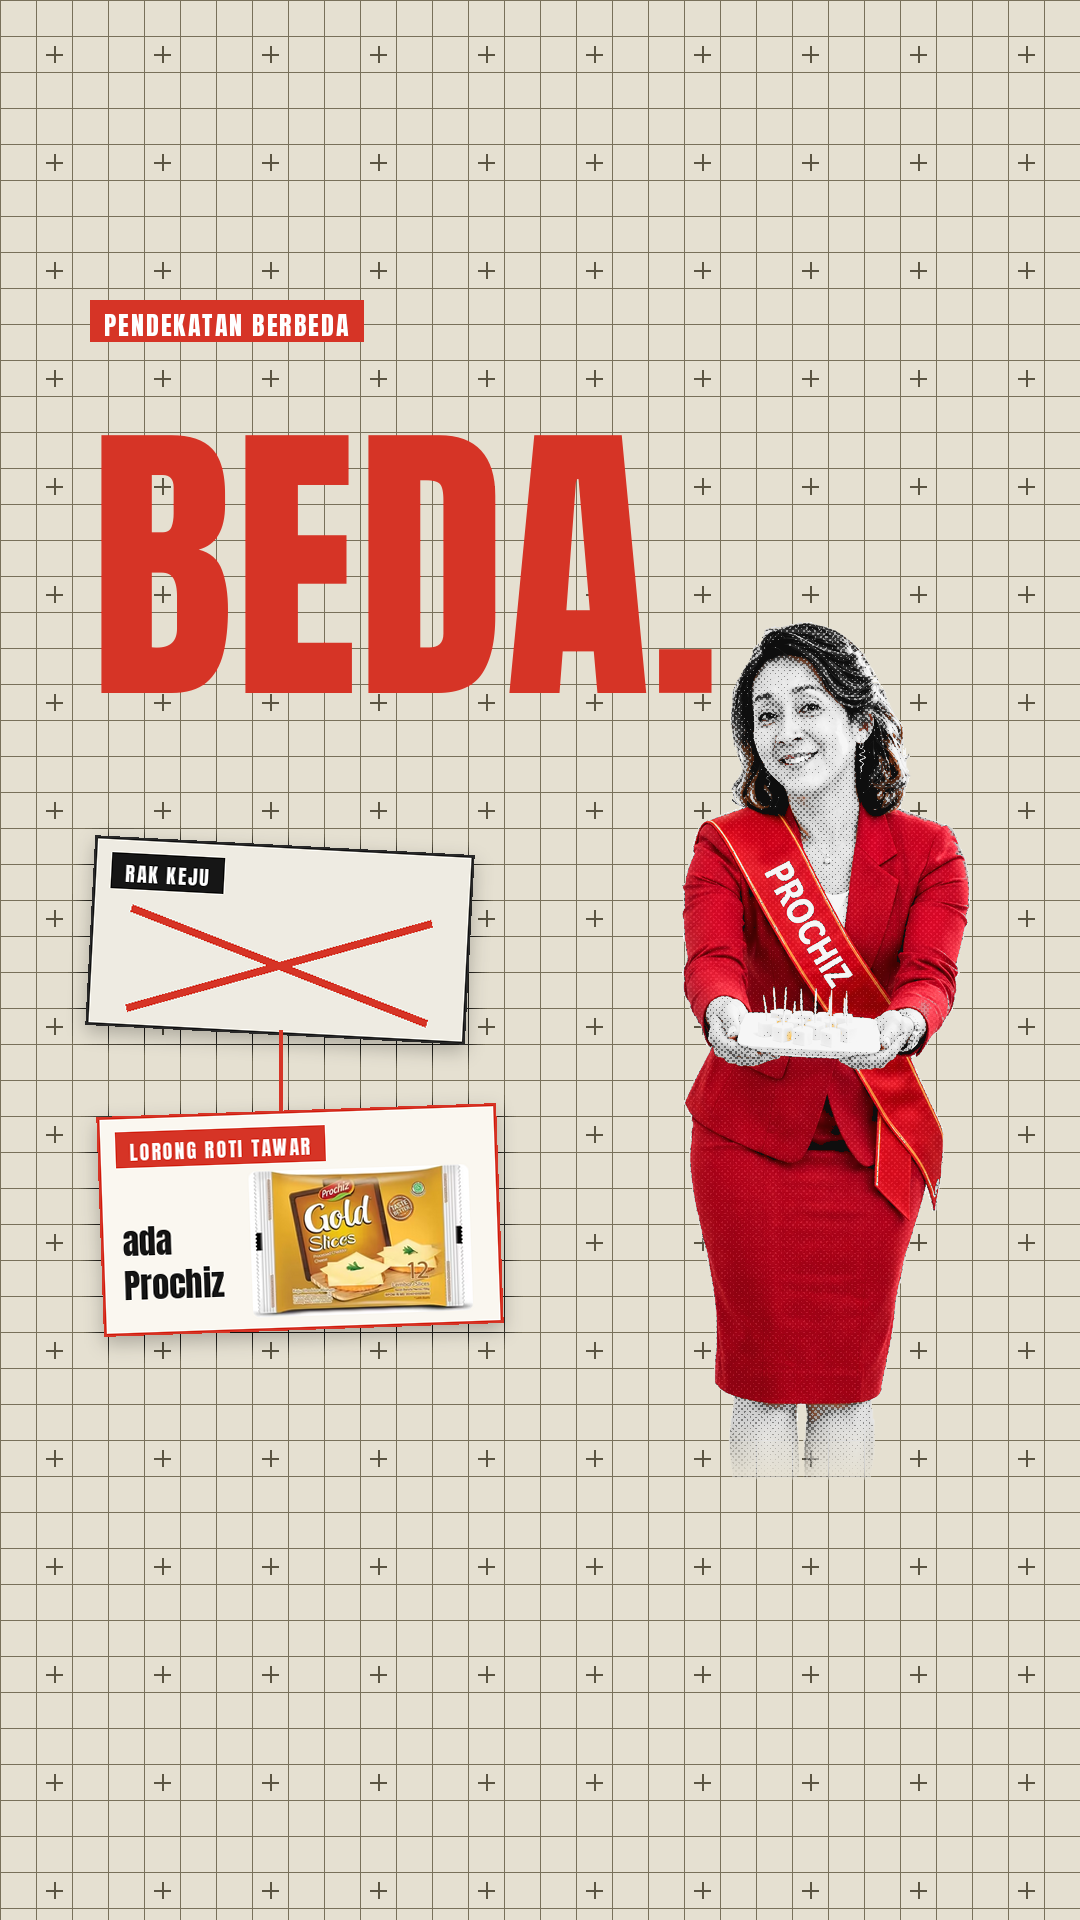
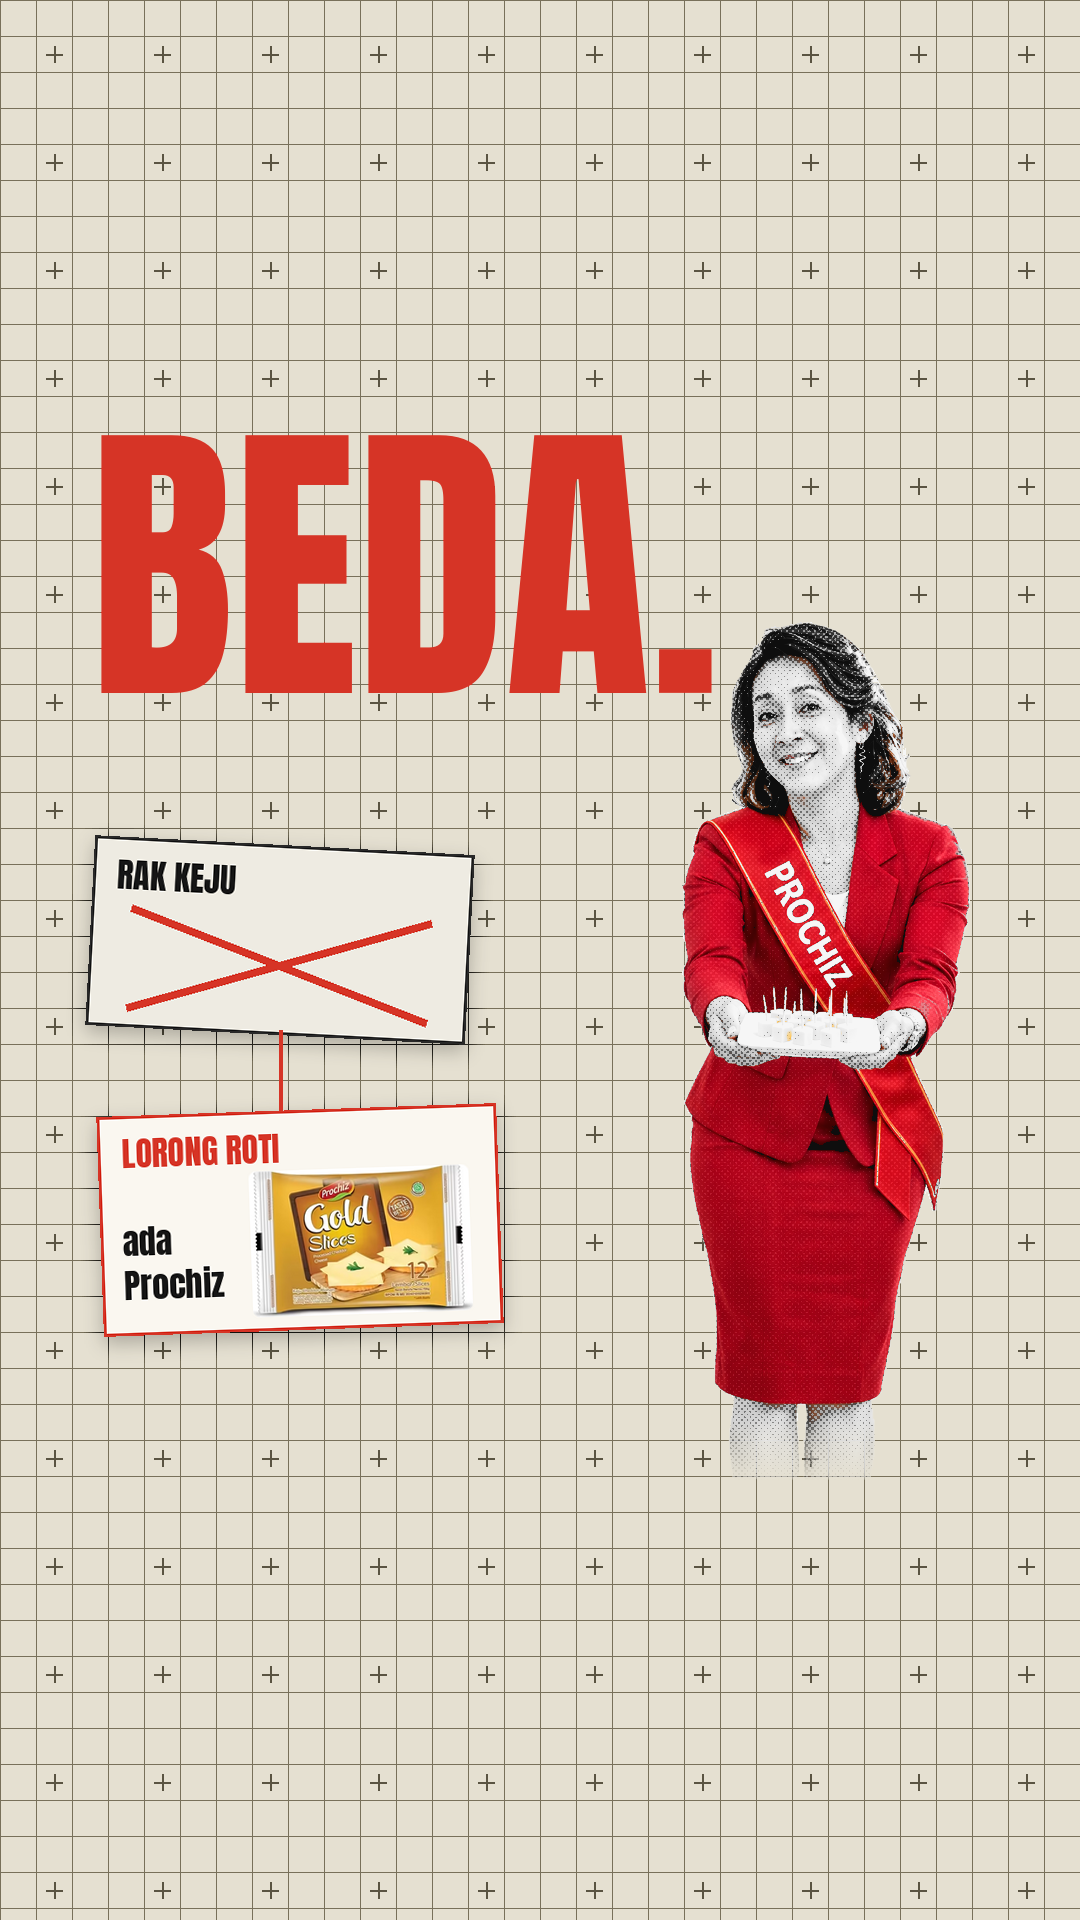
v8 frames: remove lines colliding with text/assets, cut small labels
Claude-Session: https://claude.ai/code/session_01HJTnHN98UwcZe7n2i8WeX4

Changed region(s): [[0.0917, 0.5625, 0.3056, 0.625], [0.0611, 0.1562, 0.3361, 0.1875], [0.0917, 0.4375, 0.2139, 0.4688]]

diff --git a/projects/prochiz/keyvisual/src/board6.py b/projects/prochiz/keyvisual/src/board6.py
@@ -69,13 +69,21 @@ def agus(n, h, frac=1.0):
 def name_label(L, cx, y):
     im = label("AGUSTINA  /  CO-FOUNDER PROCHIZ", 24); L.alpha_composite(im, (int(cx - im.width / 2), int(y)))
 
-def bar_card(w, rows, head, note="ILUSTRASI"):
-    h = 120 + 118 * len(rows); c = hairline_card(w, h, border=(40, 40, 40)); d = ImageDraw.Draw(c)
-    c.alpha_composite(label(head, 22), (22, 20)); y = 84
+def bar_card(w, rows, head=None, note=None):
+    top = 84 if head else 26; h = top + 118 * len(rows) + 10; c = hairline_card(w, h, border=(40, 40, 40)); d = ImageDraw.Draw(c)
+    if head: c.alpha_composite(label(head, 22), (22, 20))
+    y = top
     for nm, fr, col in rows:
         d.text((24, y), nm, font=an(26), fill=INKK + (255,)); d.rectangle((24, y + 40, w - 24, y + 84), outline=(40, 40, 40, 255), width=3, fill=(240, 236, 226, 255))
         d.rectangle((27, y + 43, 27 + int((w - 54) * fr), y + 81), fill=col + (255,)); y += 118
-    d.text((w - 24, h - 22), note, font=mono_font(16, False), fill=(110, 104, 90, 255), anchor="rb"); return c
+    if note: d.text((w - 24, h - 14), note, font=mono_font(16, False), fill=(110, 104, 90, 255), anchor="rb")
+    return c
+
+def dot_only(L, x, y, r=10):
+    d = ImageDraw.Draw(L); d.ellipse((x - r - 11, y - r - 11, x + r + 11, y + r + 11), outline=RED + (255,), width=3); d.ellipse((x - r, y - r, x + r, y + r), fill=RED + (255,), outline=(255, 255, 255, 255), width=3)
+
+def tag_blank():
+    im = hairline_card(96, 128, border=(40, 40, 40)); ImageDraw.Draw(im).rectangle((30, 36, 66, 72), fill=RED + (255,)); return im
 
 def ac(L, im, pos): L.alpha_composite(im, (int(pos[0]), int(pos[1])))
 def rule(L, p0, p1, col=INKK, w=6): ImageDraw.Draw(L).line((p0[0], p0[1], p1[0], p1[1]), fill=col + (255,), width=w)
@@ -84,35 +92,29 @@ def dotnode(L, x, y, col): ImageDraw.Draw(L).ellipse((x - 18, y - 18, x + 18, y 
 # ---------------------------------------------------------------- 15 scenes
 def s01(L):
     ttl(L, [[("KOMPETITOR", INKK)], [("MENGUASAI", INKK)], [("RAK", INKK), ("KEJU.", RED)]], 290, 124)
-    plumb(L, 230, 250, 1010, True)
     mh = mono_halftone(WALL.crop((294, 112, 1366, 912)).resize((860, 641), Image.LANCZOS), 5, 0.22, 1.08)
     d = ImageDraw.Draw(mh); sx, sy = int(536 * 860 / 1072), int(400 * 860 / 1072); d.rectangle((sx - 78, sy - 62, sx + 78, sy + 62), outline=RED + (255,), width=6)
     place(L, pcard(mh.resize((820, 611), Image.LANCZOS)), CX - 8, 1130, rot=-2)
-    micro(L, "SLOT KOSONG DI RAK KOMPETITOR", SL + 30, 745)
     ac(L, stamp("DIKUASAI KOMPETITOR"), (int(CX - 330), 1290))
 
 def s02(L):
     ttl(L, [[("PROCHIZ", RED)], [("MENYERANG DARI", INKK)], [("RAK ROTI TAWAR!", INKK)]], 290, 124)
     micro(L, "KENAPA RAK ROTI?", 90, 700, size=28)
     sp = agus(1, 1150, 0.72); ac(L, sp, (int(CX - sp.width / 2) + 20, 1480 - sp.height)); top = 1480 - sp.height
-    plumb(L, CX + 42, 260, top + 58, True, 9)
-    for x, y, r in ((120, 880, -5), (116, 1020, 4), (128, 1160, -3), (900, 840, 4), (904, 990, -4), (896, 1140, 3)): place(L, P.tag_card("ROTI"), x, y, rot=r)
+    dot_only(L, CX + 42, top - 6, 9)
+    for x, y, r in ((120, 880, -5), (116, 1020, 4), (128, 1160, -3), (900, 840, 4), (904, 990, -4), (896, 1140, 3)): place(L, tag_blank(), x, y, rot=r)
     name_label(L, CX + 20, 1420)
 
 def s03(L):
     ttl(L, [[("WAKTU MASUK KE", INKK)], [("SUPERMARKET", RED)]], 290, 124)
-    pw, ph = 860, 700; c = hairline_card(pw, ph, border=(40, 40, 40)); d = ImageDraw.Draw(c)
-    c.alpha_composite(label("DENAH TOKO  ·  TAMPAK ATAS", 22), (22, 20))
-    xs = [100, 270, 440, 610, 760]
-    for i, x in enumerate(xs): d.rectangle((x, 100, x + 56, 470), outline=(40, 40, 40, 255), width=3, fill=((255, 220, 214, 255) if i == 3 else (236, 232, 222, 255)))
-    c.alpha_composite(label("RAK KEJU", 20), (xs[1] - 28, 490)); c.alpha_composite(label("LORONG ROTI", 20, bg_=RED), (xs[3] - 52, 490))
-    c.alpha_composite(label("KASIR", 20), (pw - 150, ph - 70))
-    d.line((pw // 2, ph - 40, pw // 2, 590, xs[3] + 28, 560, xs[3] + 28, 300), fill=RED + (255,), width=5)
-    d.ellipse((xs[3] + 28 - 14, 300 - 14, xs[3] + 28 + 14, 300 + 14), fill=RED + (255,), outline=(255, 255, 255, 255), width=3)
-    c.alpha_composite(label("PINTU MASUK", 20), (pw // 2 - 70, ph - 38))
-    place(L, c, CX, 1130, rot=-1)
     micro(L, "PROCHIZ BERDIRI DI MANA?", SL + 20, 690, size=28)
-    plumb(L, SL + 40, 250, 780, False)
+    pw, ph = 860, 640; c = hairline_card(pw, ph, border=(40, 40, 40)); d = ImageDraw.Draw(c)
+    xs = [100, 270, 440, 610, 760]
+    for i, x in enumerate(xs): d.rectangle((x, 130, x + 56, 470), outline=(40, 40, 40, 255), width=3, fill=((255, 220, 214, 255) if i == 3 else (236, 232, 222, 255)))
+    c.alpha_composite(label("LORONG ROTI", 24, bg_=RED), (xs[3] + 28 - 70, 70))
+    cx3 = xs[3] + 28; d.line((cx3, ph - 30, cx3, 500), fill=RED + (255,), width=6)
+    d.ellipse((cx3 - 14, 486 - 14, cx3 + 14, 486 + 14), fill=RED + (255,), outline=(255, 255, 255, 255), width=3)
+    place(L, c, CX, 1130, rot=-1)
 
 def s04(L):
     ttl(L, [[("TIDAK BISA SEKADAR", INKK)], [("MENGANDALKAN", INKK), ("RAK KEJU", RED)]], 290, 100)
@@ -120,13 +122,12 @@ def s04(L):
     sx, sy = int(470 * 800 / 941), int(512 * 800 / 941); lg = wfit(LOGO_P, 170); box = Image.new("RGBA", (200, 150), PAPER_ + (255,)); box.alpha_composite(lg, (15, 14)); mh.alpha_composite(box, (sx - 100, sy - 75))
     ImageDraw.Draw(mh).rectangle((sx - 104, sy - 79, sx + 104, sy + 79), outline=RED + (255,), width=6)
     place(L, pcard(mh), CX, 1000, rot=1.2)
-    micro(L, "SATU DI ANTARA BANYAK", SL + 10, 1450); micro(L, "ILUSTRASI", SR - 150, 1450, bg=(110, 104, 90))
-    plumb(L, SR - 90, 250, 1000 - 400 + 70, False)
+    micro(L, "SATU DI ANTARA BANYAK", SL + 10, 1450)
 
 def s05(L):
     ttl(L, [[("BRAND LAWAN JAUH", INKK)], [("LEBIH DULU", INKK), ("DIKENAL", RED)]], 290, 108)
-    place(L, bar_card(760, (("BRAND LAWAN", 0.92, INKK), ("PROCHIZ", 0.26, RED)), "TINGKAT DIKENAL"), 490, 700, rot=1.5)
-    f = CUST1_X.resize((int(CUST1_X.width * 650 / CUST1_X.height), 650), Image.LANCZOS); ac(L, f, (SR - f.width - 40, 1480 - 650))
+    place(L, bar_card(760, (("BRAND LAWAN", 0.92, INKK), ("PROCHIZ", 0.26, RED)), "ILUSTRASI  ·  TINGKAT DIKENAL"), 490, 700, rot=1.5)
+    f = CUST1_X.resize((int(CUST1_X.width * 590 / CUST1_X.height), 590), Image.LANCZOS); ac(L, f, (SR - f.width - 40, 1480 - 590))
     q = label("mana yang Prochiz ya?", 30, fg=INKK, bg_=PAPER_); qq = Image.new("RGBA", (q.width + 8, q.height + 8), (40, 40, 40, 255)); qq.alpha_composite(q, (4, 4)); place(L, qq, 330, 1250, rot=3)
 
 def s06(L):
@@ -134,52 +135,46 @@ def s06(L):
     place(L, mono_card(WALL, 500, crop=(294, 112, 1366, 912)), 345, 880, rot=-5)
     ac(L, CROWD2, (int(470 - CROWD2.width / 2) + 40, 1480 - CROWD2.height + 4))
     ac(L, stamp("REBUT PERHATIAN", 50, -7), (130, 1180))
-    micro(L, "RAK KEJU  ·  KOMPETITOR", 90, 640)
 
 def s07(L):
-    micro(L, "PENDEKATAN BERBEDA", 90, 300, size=26, bg=RED)
     ttl(L, [[("BEDA.", RED)]], 340, 300, lead=1.0)
     sp = agus(2, 1100, 0.78); ac(L, sp, (SR - sp.width + 10, 1480 - sp.height))
-    a = hairline_card(380, 190, border=(40, 40, 40), fill=(238, 235, 226)); d = ImageDraw.Draw(a); a.alpha_composite(label("RAK KEJU", 20), (18, 16)); d.line((40, 70, 340, 170), fill=RED + (255,), width=8); d.line((40, 170, 340, 70), fill=RED + (255,), width=8)
+    a = hairline_card(380, 190, border=(40, 40, 40), fill=(238, 235, 226)); d = ImageDraw.Draw(a); d.text((24, 12), "RAK KEJU", font=an(34), fill=INKK + (255,)); d.line((40, 70, 340, 170), fill=RED + (255,), width=8); d.line((40, 170, 340, 70), fill=RED + (255,), width=8)
     place(L, a, 280, 940, rot=-3)
-    b = hairline_card(400, 220, border=RED); b.alpha_composite(label("LORONG ROTI TAWAR", 20, bg_=RED), (18, 16)); b.alpha_composite(wfit(GOLD_P, 220), (150, 60)); ImageDraw.Draw(b).text((22, 100), "ada\nProchiz", font=an(34), fill=INKK + (255,))
+    b = hairline_card(400, 220, border=RED); ImageDraw.Draw(b).text((24, 12), "LORONG ROTI", font=an(34), fill=RED + (255,)); b.alpha_composite(wfit(GOLD_P, 220), (150, 60)); ImageDraw.Draw(b).text((22, 100), "ada\nProchiz", font=an(34), fill=INKK + (255,))
     place(L, b, 300, 1220, rot=2); plumb(L, 280, 1030, 1110, False)
 
 def s08(L):
     ttl(L, [[("SPG DI LORONG", INKK)], [("ROTI", INKK), ("TAWAR", RED)]], 290, 108)
     place(L, mono_card(AISLE, 790, crop=(236, 0, 1436, 941)), 490, 960, rot=-2)
     sp = agus(1, 1050, 0.72); ac(L, sp, (SR - sp.width + 0, 1480 - sp.height))
-    hang(L, 828, 285, label("LORONG ROTI TAWAR", 20, bg_=INKK), rot=-3)
-    plumb(L, 300, 760, 1010, True, 12)
+    dot_only(L, 300, 1010, 12)
 
 def s09(L):
-    micro(L, "POV: KAMU LAGI CARI ROTI", 90, 300, size=28, bg=RED)
+    micro(L, "POV", 90, 300, size=34, bg=RED)
     ttl(L, [[("CUSTOMER", INKK)], [("MENCARI", INKK), ("ROTI", RED)]], 360, 122)
     pov = mono_card(POV, 600, crop=(400, 60, 1100, 941)); place(L, pov, 400, 1090, rot=-2)
     q = label("TERUS ENAKNYA DIAPAIN?", 34, fg=INKK, bg_=PAPER_); qq = Image.new("RGBA", (q.width + 8, q.height + 8), (40, 40, 40, 255)); qq.alpha_composite(q, (4, 4)); place(L, qq, 700, 1380, rot=3)
-    plumb(L, 640, 640, 1000, True, 12)
+    dot_only(L, 640, 1000, 12)
 
 def receipt():
     w, h = 330, 520; im = Image.new("RGBA", (w, h + 20), (0, 0, 0, 0)); d = ImageDraw.Draw(im)
     pts = [(0, 0), (w, 0)]; zz = 14
     pts += [(w - i * zz, h + (10 if i % 2 else 0)) for i in range(0, w // zz + 1)]; d.polygon(pts, fill=PAPER_ + (255,), outline=(40, 40, 40, 255))
-    f = mono_font(20); fb = mono_font(26); d.text((w // 2, 36), "NOTA BELANJA", font=fb, fill=INKK + (255,), anchor="mm"); d.text((w // 2, 70), "ILUSTRASI", font=mono_font(15, False), fill=(110, 104, 90, 255), anchor="mm")
-    d.line((20, 96, w - 20, 96), fill=(40, 40, 40, 255), width=2)
+    f = mono_font(20); fb = mono_font(26); d.text((w // 2, 44), "NOTA", font=fb, fill=INKK + (255,), anchor="mm"); d.line((20, 76, w - 20, 76), fill=(40, 40, 40, 255), width=2)
     for i, (n, hl) in enumerate((("ROTI TAWAR  x1", False), ("KEJU PROCHIZ  x1", True))):
         y = 140 + i * 72
         if hl: d.rectangle((14, y - 22, w - 14, y + 22), fill=RED + (255,))
         d.text((24, y), n, font=f, fill=((255, 255, 255) if hl else INKK) + (255,), anchor="lm")
-    d.line((20, 300, w - 20, 300), fill=(40, 40, 40, 255), width=2); d.text((24, 340), "DIBELI BERSAMA", font=f, fill=INKK + (255,), anchor="lm"); d.text((24, 400), "TERIMA KASIH", font=mono_font(18, False), fill=(110, 104, 90, 255), anchor="lm")
+    d.line((20, 300, w - 20, 300), fill=(40, 40, 40, 255), width=2); d.text((24, 340), "DIBELI BERSAMA", font=f, fill=INKK + (255,), anchor="lm"); pass
     return im
 
 def s10(L):
-    micro(L, "JAWABANNYA", 90, 300, size=26, bg=RED)
     ttl(L, [[("KEJU", RED)], [("PENDAMPING ROTI", INKK)]], 350, 116)
     gc = pcard(GOLDC.resize((560, 373), Image.LANCZOS)); place(L, gc, 380, 900, rot=-2)
     ac(L, wfit(Image.fromarray(np.asarray(P_ROTI)), 230), (110, 1080)) if False else None
     place(L, receipt(), 765, 1130, rot=4)
     ac(L, stamp("COCOK DIPASANGKAN", 46, -6), (96, 1220))
-    micro(L, "PROCHIZ GOLD CHEDDAR", 90, 1130)
 
 def s11(L):
     ttl(L, [[("KALAU KAMU OWNER:", INKK)], [("TUNGGU", INKK), ("ATAU", INKK), ("PINDAH?", RED)]], 290, 112)
@@ -189,8 +184,7 @@ def s11(L):
     left = panel(WALL, CUST3_X, 640, False); d = ImageDraw.Draw(left); d.line((90, 170, 330, 400), fill=RED + (255,), width=10); d.line((330, 170, 90, 400), fill=RED + (255,), width=10)
     place(L, left, SL + 12 + (pw + 24) / 2, 1010, rot=-1)
     place(L, panel(AISLE, agus(2, 780, 1.0), 700, True), SR - 12 - (pw + 24) / 2, 1010, rot=1)
-    micro(L, "MENUNGGU DI RAK KEJU", SL + 12, 1450); micro(L, "MENDATANGI DI LORONG ROTI", SR - 12 - 330, 1450, bg=RED)
-    micro(L, "VS", CX - 22, 1000, size=34)
+    micro(L, "MENUNGGU", SL + 12, 1450, size=28); micro(L, "MENDATANGI", SR - 12 - 190, 1450, size=28, bg=RED)
 
 def s12(L):
     ttl(L, [[("TEPAT SAAT", INKK)], [("KEBUTUHAN", RED), ("MUNCUL.", INKK)]], 290, 112)
@@ -199,32 +193,28 @@ def s12(L):
     items = ((800, "AMBIL ROTI", "roti"), (1090, "KEBUTUHAN MUNCUL", "ping"), (1380, "TAWARKAN KEJU", "pack"))
     for y, tag, ic in items:
         dotnode(L, 150, y, (RED if ic == "ping" else INKK))
-        c = hairline_card(480, 190, border=(40, 40, 40)); c.alpha_composite(label(tag, 22, bg_=(RED if ic == "ping" else INKK)), (18, 16))
-        if ic == "roti": c.alpha_composite(wfit(Image.fromarray(np.asarray(P_ROTI)), 120), (320, 40))
-        elif ic == "pack": c.alpha_composite(wfit(GOLD_P, 200), (250, 50))
-        else: ImageDraw.Draw(c).ellipse((350, 52, 430, 132), fill=RED + (255,))
-        ImageDraw.Draw(c).text((22, 110), ("customer\npilih roti", "butuh\npendamping", "SPG tawarkan\nProchiz")[items.index((y, tag, ic))], font=mono_font(22, False), fill=INKK + (255,))
-        place(L, c, 390, y, rot=(1, -1, 1)[items.index((y, tag, ic))])
-    plumb(L, 150, 1000, 1090, True, 12)
+        c = hairline_card(440, 170, border=(40, 40, 40)); c.alpha_composite(label(tag, 24, bg_=(RED if ic == "ping" else INKK)), (18, 16))
+        if ic == "roti": c.alpha_composite(wfit(Image.fromarray(np.asarray(P_ROTI)), 130), (290, 24))
+        elif ic == "pack": c.alpha_composite(wfit(GOLD_P, 190), (220, 36))
+        else: ImageDraw.Draw(c).ellipse((300, 40, 400, 140), fill=RED + (255,))
+        place(L, c, 420, y, rot=(1, -1, 1)[items.index((y, tag, ic))])
 
 def s13(L):
     ttl(L, [[("STRATEGI", INKK)]], 280, 140); rule(L, (SL + 18, 450), (SR, 450), INKK, 6); ttl(L, [[("GERILYA", RED)]], 460, 140)
     sp = agus(3, 800, 1.0); ac(L, sp, (int(CX - sp.width / 2) + 100, 1480 - sp.height + 10))
-    ac(L, wfit(LOGO_P, 300), (90, 860)); plumb(L, 240, 680, 860, False)
-    name_label(L, CX + 100, 1440)
+    ac(L, wfit(LOGO_P, 300), (90, 860))
 
 def s14(L):
     ttl(L, [[("MEREBUT", INKK)], [("PERHATIAN", RED)], [("CUSTOMER", INKK)]], 290, 118)
-    c = hairline_card(520, 440, border=(40, 40, 40)); d = ImageDraw.Draw(c); c.alpha_composite(label("MOMEN CUSTOMER", 22), (22, 18))
+    c = hairline_card(520, 370, border=(40, 40, 40)); d = ImageDraw.Draw(c)
     for i, (tx, col) in enumerate((("CARI ROTI", INKK), ("BUTUH PENDAMPING", (110, 106, 96)), ("TERTARIK KEJU", RED))):
-        d.rectangle((26, 80 + i * 110, 494, 160 + i * 110), fill=col + (255,)); d.text((260, 120 + i * 110), tx, font=an(34), fill=(255, 255, 255, 255), anchor="mm")
+        d.rectangle((26, 30 + i * 110, 494, 110 + i * 110), fill=col + (255,)); d.text((260, 70 + i * 110), tx, font=an(34), fill=(255, 255, 255, 255), anchor="mm")
     place(L, c, 330, 1050, rot=-2)
     f = CUST4_X; ac(L, f.resize((int(f.width * 800 / f.height), 800), Image.LANCZOS), (SR - 440, 1480 - 800))
-    plumb(L, 600, 700, 900, False)
 
 def s15(L):
     ttl(L, [[("MEMPERLUAS", INKK)], [("PENETRASI", RED)], [("PASAR.", INKK)]], 290, 118)
-    c = bar_card(480, (("PENETRASI PASAR", 0.82, RED),), "PROCHIZ  ·  TERUS NAIK"); c.alpha_composite(wfit(LOGO_P, 200), (140, 16 + 0)) if False else None
+    c = bar_card(480, (("PENETRASI PASAR", 0.82, RED),), None, "ILUSTRASI"); c.alpha_composite(wfit(LOGO_P, 200), (140, 16 + 0)) if False else None
     place(L, c, 700, 1020, rot=2); ac(L, wfit(LOGO_P, 190), (610, 800 - 20))
     sp = agus(1, 1050, 0.72); ac(L, sp, (60, 1480 - sp.height)); name_label(L, 290, 1440)
 
